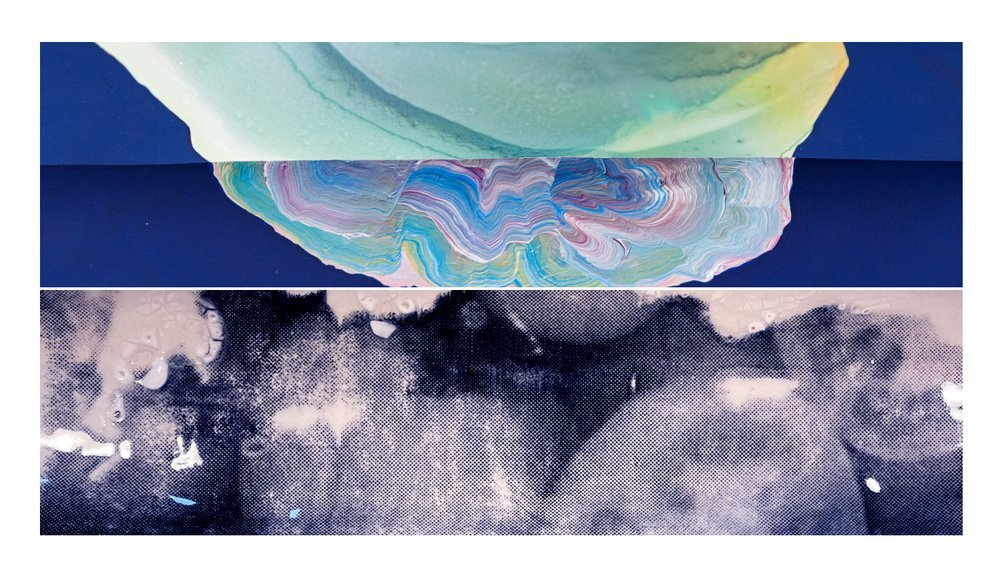
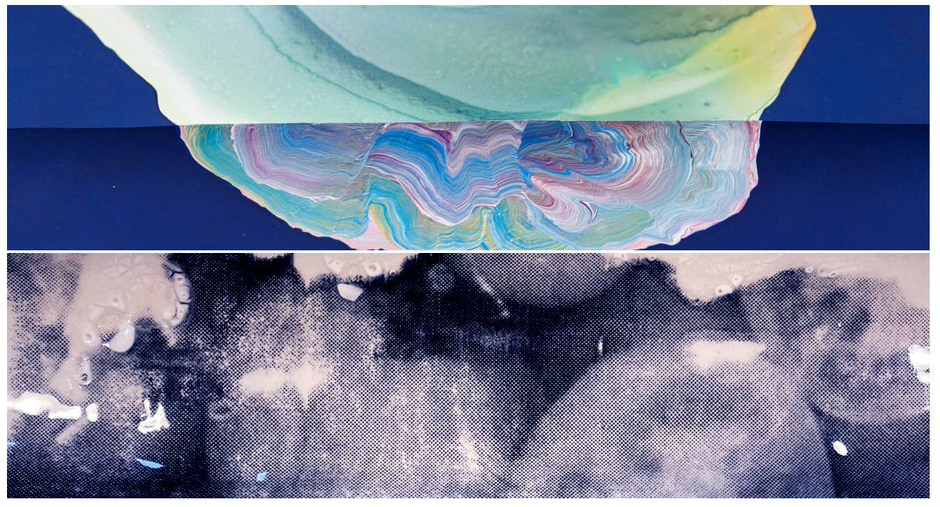
update landing page background image to gif

diff --git a/src/components/LandingPage/LandingPage.module.css b/src/components/LandingPage/LandingPage.module.css
@@ -1,7 +1,7 @@
 .LandingPage {
   margin: 0;
   height: 100vh;
-  background: url(../img/00.png) no-repeat center center fixed;
+  background: url(../img/Salt_01.gif) no-repeat center center fixed;
   background-size: cover;
   z-index: 1;
 }
